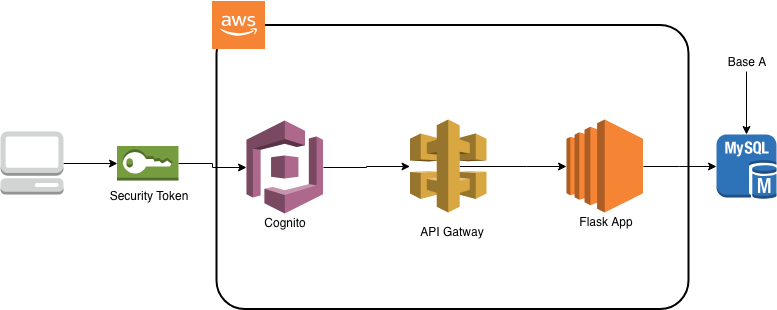
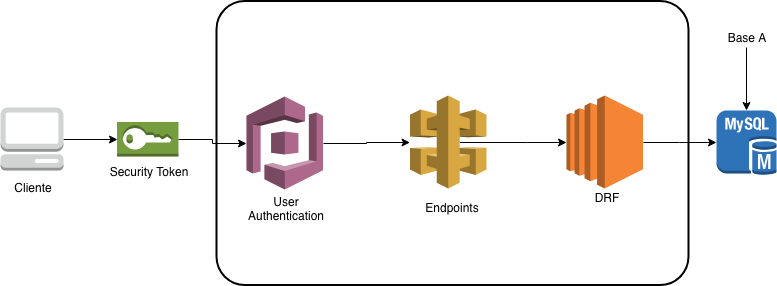
adc novas imagens estrutura

diff --git a/README.md b/README.md
@@ -24,9 +24,8 @@ Para proteção de uma base de informação e dados deve-se seguir alguns concei
 ##### Minha proposta para esse microsserviço está descrita a baixo:
 
 1. MySql
-2. Django
-3. Django-Rest-Framawork
-4. Json WebToken
+2. Django-Rest-Framawork
+3. Json Web Token
 
 ![BASE A](https://github.com/asafepy/desafio-api-bureau/blob/develop/files/base-a.png)
 
